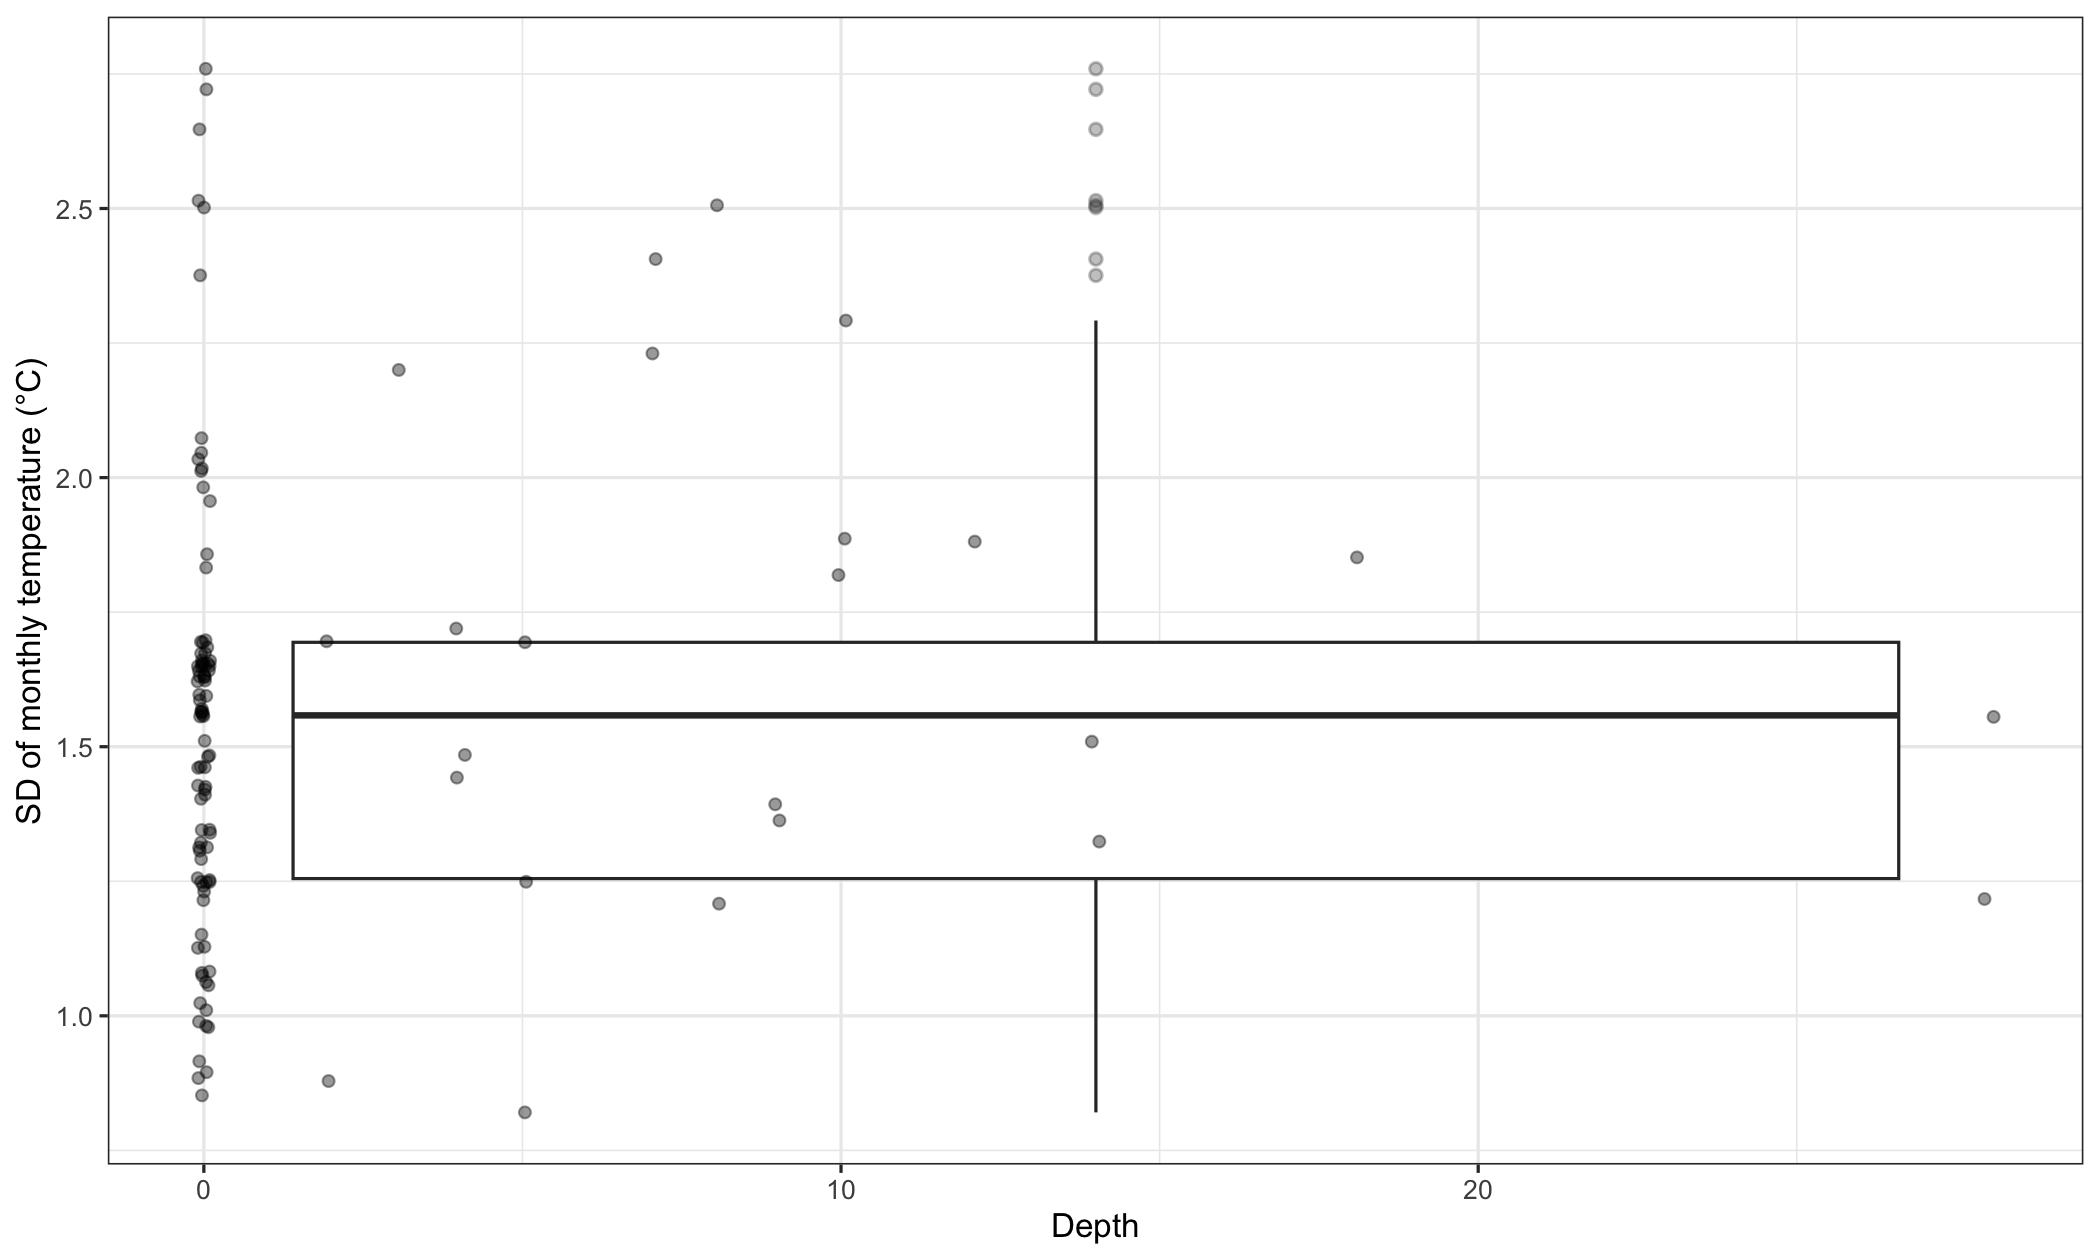
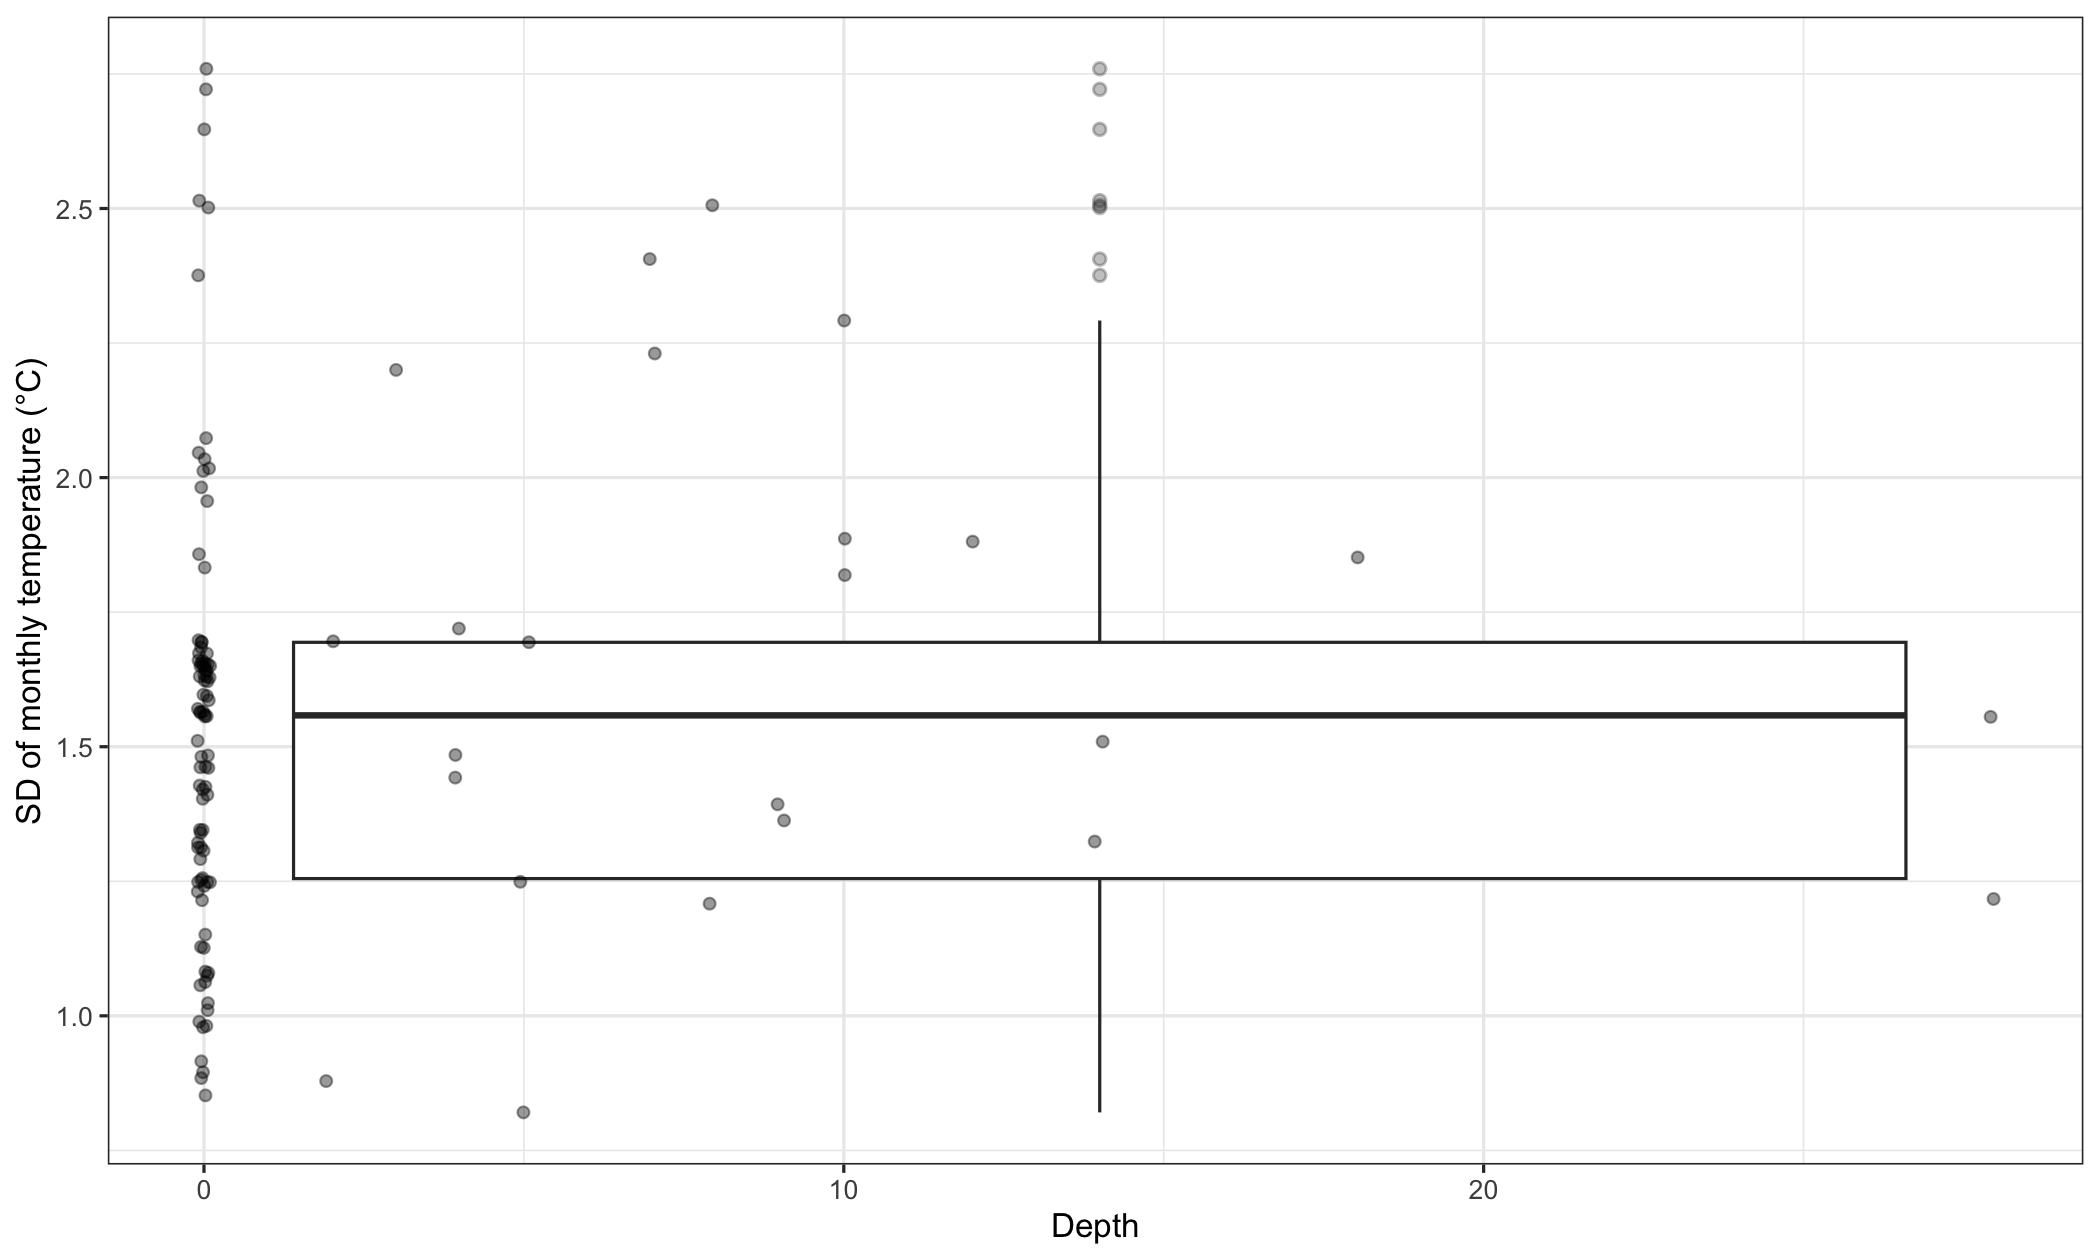
Update Task B.

diff --git a/_site/tasks/BCB744_Task_B.html b/_site/tasks/BCB744_Task_B.html
@@ -21,41 +21,6 @@ ul.task-list li input[type="checkbox"] {
   margin: 0 0.8em 0.2em -1em; /* quarto-specific, see https://github.com/quarto-dev/quarto-cli/issues/4556 */ 
   vertical-align: middle;
 }
-/* CSS for syntax highlighting */
-html { -webkit-text-size-adjust: 100%; }
-pre > code.sourceCode { white-space: pre; position: relative; }
-pre > code.sourceCode > span { display: inline-block; line-height: 1.25; }
-pre > code.sourceCode > span:empty { height: 1.2em; }
-.sourceCode { overflow: visible; }
-code.sourceCode > span { color: inherit; text-decoration: inherit; }
-div.sourceCode { margin: 1em 0; }
-pre.sourceCode { margin: 0; }
-@media screen {
-div.sourceCode { overflow: auto; }
-}
-@media print {
-pre > code.sourceCode { white-space: pre-wrap; }
-pre > code.sourceCode > span { text-indent: -5em; padding-left: 5em; }
-}
-pre.numberSource code
-  { counter-reset: source-line 0; }
-pre.numberSource code > span
-  { position: relative; left: -4em; counter-increment: source-line; }
-pre.numberSource code > span > a:first-child::before
-  { content: counter(source-line);
-    position: relative; left: -1em; text-align: right; vertical-align: baseline;
-    border: none; display: inline-block;
-    -webkit-touch-callout: none; -webkit-user-select: none;
-    -khtml-user-select: none; -moz-user-select: none;
-    -ms-user-select: none; user-select: none;
-    padding: 0 4px; width: 4em;
-  }
-pre.numberSource { margin-left: 3em;  padding-left: 4px; }
-div.sourceCode
-  {   }
-@media screen {
-pre > code.sourceCode > span > a:first-child::before { text-decoration: underline; }
-}
 </style>
 
 
@@ -455,12 +420,15 @@ cookieconsent.run({
           <li class="sidebar-item">
   <div class="sidebar-item-container"> 
   <a href="../tasks/BCB744_Task_C.html" class="sidebar-item-text sidebar-link">
- <span class="menu-text">BCB744 Task C</span></a>
+ <span class="menu-text">BCB744 Task D</span></a>
   </div>
 </li>
           <li class="sidebar-item">
- <span class="menu-text">tasks/BCB744_Task_D.qmd</span>
-  </li>
+  <div class="sidebar-item-container"> 
+  <a href="../tasks/BCB744_Task_D.html" class="sidebar-item-text sidebar-link">
+ <span class="menu-text">BCB744 Task C</span></a>
+  </div>
+</li>
           <li class="sidebar-item">
   <div class="sidebar-item-container"> 
   <a href="../tasks/BCB744_Task_E.html" class="sidebar-item-text sidebar-link">
@@ -518,8 +486,6 @@ cookieconsent.run({
   <li><a href="#question-11-complex" id="toc-question-11-complex" class="nav-link" data-scroll-target="#question-11-complex">Question 11 (complex)</a></li>
   <li><a href="#question-12-complex" id="toc-question-12-complex" class="nav-link" data-scroll-target="#question-12-complex">Question 12 (complex)</a></li>
   <li><a href="#question-13-complex" id="toc-question-13-complex" class="nav-link" data-scroll-target="#question-13-complex">Question 13 (complex)</a></li>
-  <li><a href="#question-14" id="toc-question-14" class="nav-link" data-scroll-target="#question-14">Question 14</a></li>
-  <li><a href="#question-15" id="toc-question-15" class="nav-link" data-scroll-target="#question-15">Question 15</a></li>
   </ul></li>
   </ul>
 <div class="toc-actions"><ul><li><a href="https://github.com/ajsmit/SAMOS_R/edit/main/tasks/BCB744_Task_B.qmd" class="toc-action"><i class="bi bi-github"></i>Edit this page</a></li><li><a href="https://github.com/ajsmit/SAMOS_R/issues/new" class="toc-action"><i class="bi empty"></i>Report an issue</a></li></ul></div></nav>
@@ -669,105 +635,6 @@ cookieconsent.run({
 <li>include a short written interpretation (2–4 sentences)</li>
 </ul>
 <p><strong>(/30)</strong></p>
-</section>
-<section id="question-14" class="level2">
-<h2 class="anchored" data-anchor-id="question-14">Question 14</h2>
-<p>What are the key principles of tidy data? <strong>(/3)</strong></p>
-<div class="callout callout-style-default callout-tip callout-titled">
-<div class="callout-header d-flex align-content-center collapsed" data-bs-toggle="collapse" data-bs-target=".callout-1-contents" aria-controls="callout-1" aria-expanded="false" aria-label="Toggle callout">
-<div class="callout-icon-container">
-<i class="callout-icon"></i>
-</div>
-<div class="callout-title-container flex-fill">
-<span class="screen-reader-only">Tip</span>Answer
-</div>
-<div class="callout-btn-toggle d-inline-block border-0 py-1 ps-1 pe-0 float-end"><i class="callout-toggle"></i></div>
-</div>
-<div id="callout-1" class="callout-1-contents callout-collapse collapse">
-<div class="callout-body-container callout-body">
-<ul>
-<li>✓ Each variable forms a column.</li>
-<li>✓ Each observation forms a row.</li>
-<li>✓ Each type of observational unit forms a table.</li>
-</ul>
-</div>
-</div>
-</div>
-</section>
-<section id="question-15" class="level2">
-<h2 class="anchored" data-anchor-id="question-15">Question 15</h2>
-<p>Using the untidy data (<code>SACTN2</code>) and the tidy data (<code>SACTN2_tidy</code>), create line graphs, one for each of DEA, SAWS, and KZNSB, showing a time series of temperature. Ensure you have a column of three figures (ncol = 1). Use the fewest number of lines of code possible. You should end up with two graphs, each with three panels. <strong>(/13)</strong></p>
-<div class="callout callout-style-default callout-tip callout-titled">
-<div class="callout-header d-flex align-content-center collapsed" data-bs-toggle="collapse" data-bs-target=".callout-2-contents" aria-controls="callout-2" aria-expanded="false" aria-label="Toggle callout">
-<div class="callout-icon-container">
-<i class="callout-icon"></i>
-</div>
-<div class="callout-title-container flex-fill">
-<span class="screen-reader-only">Tip</span>Answer
-</div>
-<div class="callout-btn-toggle d-inline-block border-0 py-1 ps-1 pe-0 float-end"><i class="callout-toggle"></i></div>
-</div>
-<div id="callout-2" class="callout-2-contents callout-collapse collapse">
-<div class="callout-body-container callout-body">
-<div class="cell" data-layout-align="center">
-<div class="code-copy-outer-scaffold"><div class="sourceCode cell-code" id="cb1"><pre class="sourceCode numberSource r number-lines code-with-copy"><code class="sourceCode r"><span id="cb1-1"><a href="#cb1-1"></a><span class="fu">library</span>(tidyverse)</span>
-<span id="cb1-2"><a href="#cb1-2"></a><span class="fu">library</span>(here)</span>
-<span id="cb1-3"><a href="#cb1-3"></a></span>
-<span id="cb1-4"><a href="#cb1-4"></a><span class="fu">load</span>(here<span class="sc">::</span><span class="fu">here</span>(<span class="st">"data"</span>, <span class="st">"SAMOS"</span>, <span class="st">"other_data"</span>, <span class="st">"SACTN_mangled.RData"</span>))</span>
-<span id="cb1-5"><a href="#cb1-5"></a></span>
-<span id="cb1-6"><a href="#cb1-6"></a>SACTN2_tidy <span class="ot">&lt;-</span> <span class="fu">pivot_longer</span>(</span>
-<span id="cb1-7"><a href="#cb1-7"></a>  SACTN2,</span>
-<span id="cb1-8"><a href="#cb1-8"></a>  <span class="at">cols =</span> <span class="fu">c</span>(<span class="st">"DEA"</span>, <span class="st">"KZNSB"</span>, <span class="st">"SAWS"</span>),</span>
-<span id="cb1-9"><a href="#cb1-9"></a>  <span class="at">names_to =</span> <span class="st">"src"</span>,</span>
-<span id="cb1-10"><a href="#cb1-10"></a>  <span class="at">values_to =</span> <span class="st">"temp"</span></span>
-<span id="cb1-11"><a href="#cb1-11"></a>)</span>
-<span id="cb1-12"><a href="#cb1-12"></a></span>
-<span id="cb1-13"><a href="#cb1-13"></a><span class="co"># Starting with SACTN2 (untidy): tidy it on the fly, then plot</span></span>
-<span id="cb1-14"><a href="#cb1-14"></a>SACTN2 <span class="sc">|&gt;</span> </span>
-<span id="cb1-15"><a href="#cb1-15"></a>  <span class="fu">pivot_longer</span>(</span>
-<span id="cb1-16"><a href="#cb1-16"></a>    <span class="at">cols =</span> <span class="fu">c</span>(<span class="st">"DEA"</span>, <span class="st">"KZNSB"</span>, <span class="st">"SAWS"</span>),</span>
-<span id="cb1-17"><a href="#cb1-17"></a>    <span class="at">names_to =</span> <span class="st">"src"</span>,</span>
-<span id="cb1-18"><a href="#cb1-18"></a>    <span class="at">values_to =</span> <span class="st">"temp"</span></span>
-<span id="cb1-19"><a href="#cb1-19"></a>  ) <span class="sc">|&gt;</span> </span>
-<span id="cb1-20"><a href="#cb1-20"></a>  <span class="fu">ggplot</span>(<span class="fu">aes</span>(<span class="at">x =</span> date, <span class="at">y =</span> temp)) <span class="sc">+</span></span>
-<span id="cb1-21"><a href="#cb1-21"></a>  <span class="fu">geom_line</span>(<span class="fu">aes</span>(<span class="at">col =</span> site, <span class="at">linetype =</span> type)) <span class="sc">+</span></span>
-<span id="cb1-22"><a href="#cb1-22"></a>  <span class="fu">facet_wrap</span>(<span class="sc">~</span> src, <span class="at">ncol =</span> <span class="dv">1</span>) <span class="sc">+</span></span>
-<span id="cb1-23"><a href="#cb1-23"></a>  <span class="fu">labs</span>(<span class="at">title =</span> <span class="st">"Untidy (tidied in pipeline)"</span>, <span class="at">x =</span> <span class="st">"Date"</span>, <span class="at">y =</span> <span class="st">"Temperature (°C)"</span>)</span>
-<span id="cb1-24"><a href="#cb1-24"></a></span>
-<span id="cb1-25"><a href="#cb1-25"></a><span class="co"># Starting with the already-tidy data</span></span>
-<span id="cb1-26"><a href="#cb1-26"></a></span>
-<span id="cb1-27"><a href="#cb1-27"></a><span class="fu">ggplot</span>(<span class="at">data =</span> SACTN2_tidy, <span class="fu">aes</span>(<span class="at">x =</span> date, <span class="at">y =</span> temp)) <span class="sc">+</span></span>
-<span id="cb1-28"><a href="#cb1-28"></a>  <span class="fu">geom_line</span>(<span class="fu">aes</span>(<span class="at">col =</span> site, <span class="at">linetype =</span> type)) <span class="sc">+</span></span>
-<span id="cb1-29"><a href="#cb1-29"></a>  <span class="fu">facet_wrap</span>(<span class="sc">~</span> src, <span class="at">ncol =</span> <span class="dv">1</span>) <span class="sc">+</span></span>
-<span id="cb1-30"><a href="#cb1-30"></a>  <span class="fu">labs</span>(<span class="at">title =</span> <span class="st">"Already tidy"</span>, <span class="at">x =</span> <span class="st">"Date"</span>, <span class="at">y =</span> <span class="st">"Temperature (°C)"</span>)</span></code></pre></div><button title="Copy to Clipboard" class="code-copy-button"><i class="bi"></i></button></div>
-<div class="cell-output-display">
-<div id="fig-library-tidyverse-1" class="quarto-float quarto-figure quarto-figure-center anchored" data-fig-align="center">
-<figure class="quarto-float quarto-float-fig figure">
-<div aria-describedby="fig-library-tidyverse-1-caption-0ceaefa1-69ba-4598-a22c-09a6ac19f8ca">
-<a href="BCB744_Task_B_files/figure-html/fig-library-tidyverse-1.png" class="lightbox" data-gallery="quarto-lightbox-gallery-2" title="Figure&nbsp;1: SACTN2 temperature time series faceted by source."><img src="BCB744_Task_B_files/figure-html/fig-library-tidyverse-1.png" class="img-fluid quarto-figure quarto-figure-center figure-img" style="width:80.0%"></a>
-</div>
-<figcaption class="quarto-float-caption-bottom quarto-float-caption quarto-float-fig" id="fig-library-tidyverse-1-caption-0ceaefa1-69ba-4598-a22c-09a6ac19f8ca">
-Figure&nbsp;1: SACTN2 temperature time series faceted by source.
-</figcaption>
-</figure>
-</div>
-</div>
-<div class="cell-output-display">
-<div id="fig-library-tidyverse-2" class="quarto-float quarto-figure quarto-figure-center anchored" data-fig-align="center">
-<figure class="quarto-float quarto-float-fig figure">
-<div aria-describedby="fig-library-tidyverse-2-caption-0ceaefa1-69ba-4598-a22c-09a6ac19f8ca">
-<a href="BCB744_Task_B_files/figure-html/fig-library-tidyverse-2.png" class="lightbox" data-gallery="quarto-lightbox-gallery-3" title="Figure&nbsp;2: SACTN2 temperature time series faceted by source."><img src="BCB744_Task_B_files/figure-html/fig-library-tidyverse-2.png" class="img-fluid quarto-figure quarto-figure-center figure-img" style="width:80.0%"></a>
-</div>
-<figcaption class="quarto-float-caption-bottom quarto-float-caption quarto-float-fig" id="fig-library-tidyverse-2-caption-0ceaefa1-69ba-4598-a22c-09a6ac19f8ca">
-Figure&nbsp;2: SACTN2 temperature time series faceted by source.
-</figcaption>
-</figure>
-</div>
-</div>
-</div>
-</div>
-</div>
-</div>
 
 
 </section>
@@ -1197,8 +1064,8 @@ A. J. S BCB744 Task B. <a href="http://samos-r.netlify.app/tasks/BCB744_Task_B.h
       </a>          
   </div>
   <div class="nav-page nav-page-next">
-      <a href="../tasks/BCB744_Task_C.html" class="pagination-link" aria-label="BCB744 Task C">
-        <span class="nav-page-text">BCB744 Task C</span> <i class="bi bi-arrow-right-short"></i>
+      <a href="../tasks/BCB744_Task_C.html" class="pagination-link" aria-label="BCB744 Task D">
+        <span class="nav-page-text">BCB744 Task D</span> <i class="bi bi-arrow-right-short"></i>
       </a>
   </div>
 </nav>
